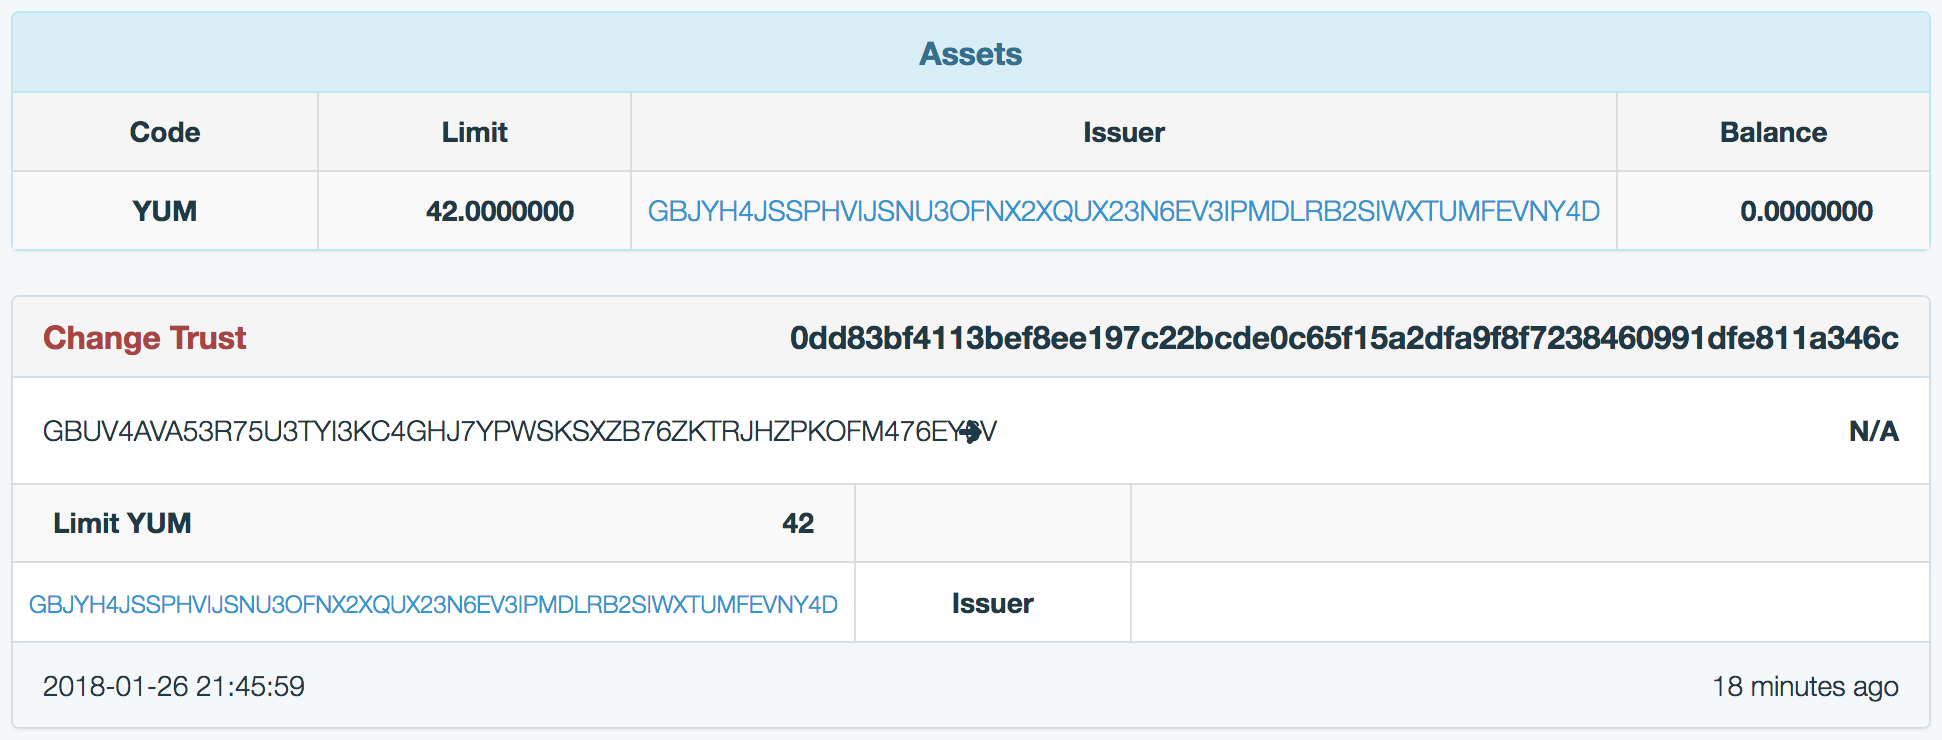
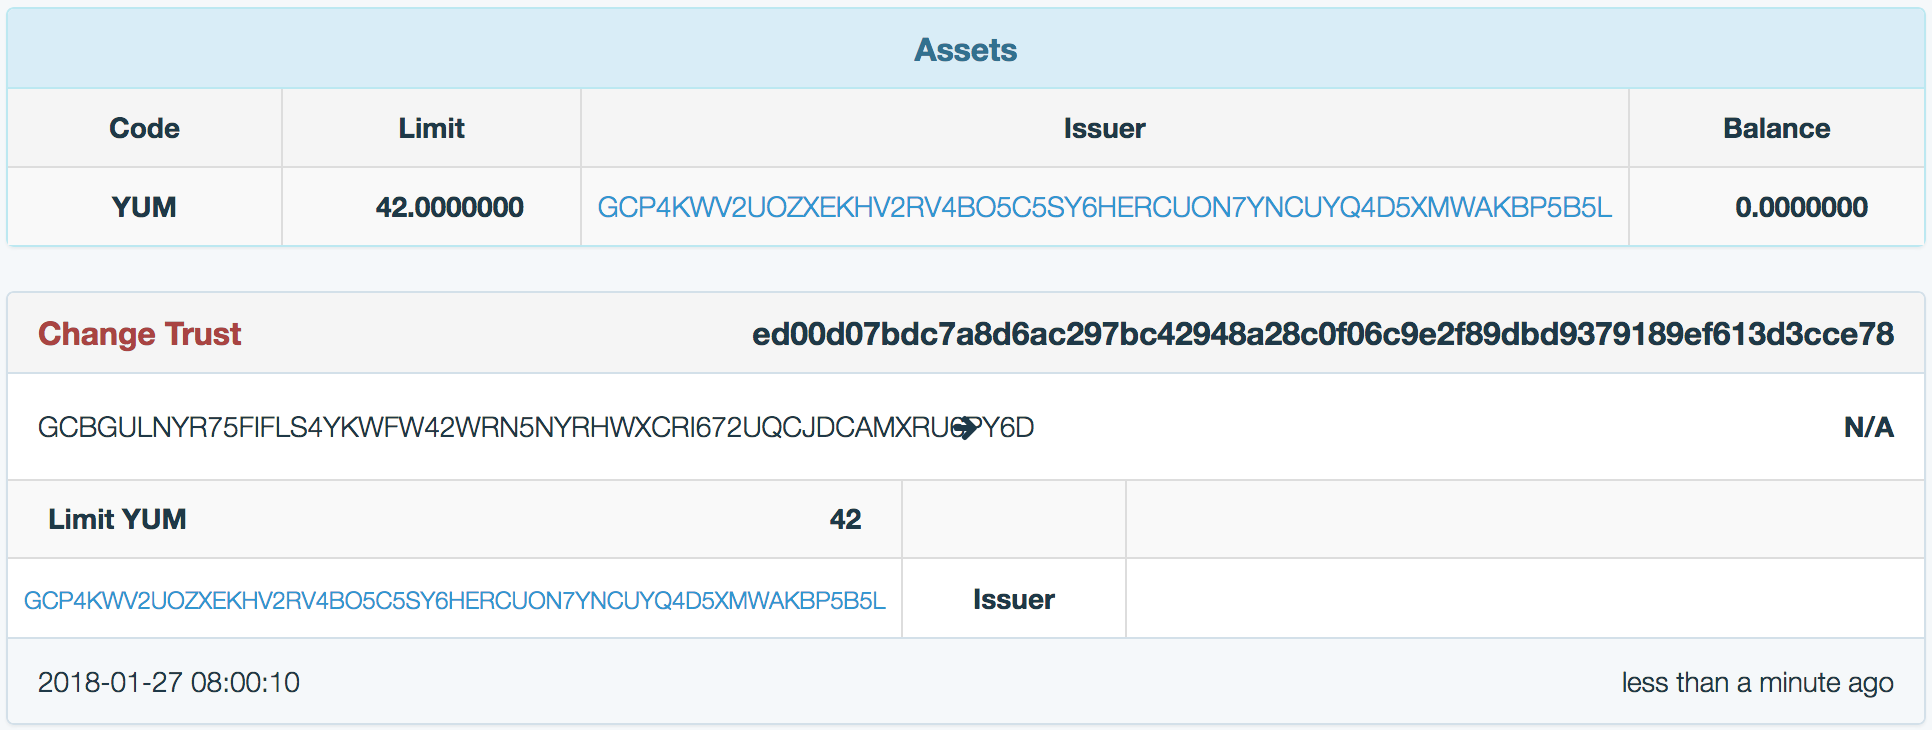
42.0 YUMs are sent with "--send-payment". noice.

diff --git a/mc.go b/mc.go
@@ -1,6 +1,7 @@
 package main
 
 import (
+	"encoding/json"
 	"flag"
 	"fmt"
 	"io/ioutil"
@@ -102,28 +103,42 @@ func fundTestAccount(stellar *horizon.Client, address string) horizon.Account {
 }
 
 func submitTransaction(stellar *horizon.Client, base64tx string) int32 {
+
 	resp, err := stellar.SubmitTransaction(base64tx)
+
 	if err != nil {
-		log.Fatal(err)
+		log.Println(err)
+		herr, isHorizonError := err.(*horizon.Error)
+		if isHorizonError {
+			resultCodes, err := herr.ResultCodes()
+			if err != nil {
+				log.Fatalln("failed to extract result codes from horizon response")
+			}
+			log.Fatalln(resultCodes)
+		}
+		log.Fatalln("could not submit the transaction")
 	}
 
 	return resp.Ledger
 }
 
 type tokenPayment struct {
-	from, to, amount string
-	asset            b.Asset
+	From, To, Amount, Token, Issuer string
 }
 
-func (t *tokenPayment) send(conf config) horizon.Account {
+func (t *tokenPayment) send(conf *config) horizon.Account {
+
+	log.Printf("sending %s %s from %s to %s", t.Amount, t.Token, seedToPair(t.From).Address(), t.To)
+
+	asset := b.CreditAsset(t.Token, t.Issuer)
 
 	tx, err := b.Transaction(
-		b.SourceAccount{t.from},
+		b.SourceAccount{t.From},
 		conf.network,
 		b.AutoSequence{conf.client},
 		b.Payment(
-			b.Destination{t.to},
-			b.CreditAmount{t.asset.Code, t.asset.Issuer, t.amount},
+			b.Destination{t.To},
+			b.CreditAmount{asset.Code, asset.Issuer, t.Amount},
 		),
 	)
 
@@ -131,7 +146,7 @@ func (t *tokenPayment) send(conf config) horizon.Account {
 		log.Fatal(err)
 	}
 
-	txe, err := tx.Sign(t.from)
+	txe, err := tx.Sign(t.From)
 
 	if err != nil {
 		log.Fatal(err)
@@ -145,13 +160,10 @@ func (t *tokenPayment) send(conf config) horizon.Account {
 
 	// fmt.Printf("tx base64: %s", txeB64)
 
-	_, err = conf.client.SubmitTransaction(txeB64)
-	if err != nil {
-		log.Fatal(err)
-	}
+	submitTransaction(conf.client, txeB64)
 	// log.Printf("sent payment %+v, horizon said: %s", t, resp)
 
-	receiver := loadAccount(conf.client, t.to, fmt.Sprintf("sent %s %s from %s to %s\n", t.amount, t.asset.Code, seedToPair(t.from).Address(), t.to))
+	receiver := loadAccount(conf.client, t.To, "... [payment sent]\n")
 
 	return receiver
 }
@@ -196,10 +208,7 @@ func (t *newToken) issueNew(conf *config) b.Asset {
 	}
 	// log.Printf("tx base64: %s", txeB64)
 
-	_, err = conf.client.SubmitTransaction(txeB64)
-	if err != nil {
-		log.Fatal(err)
-	}
+	submitTransaction(conf.client, txeB64)
 	// log.Printf("submitted change of trust tx, horizon said: %s", resp)
 
 	loadAccount(conf.client, distributor.Address(), fmt.Sprintf("issued trust for %s to ", t.symbol))
@@ -232,6 +241,12 @@ func main() {
 		createNewKeys(keyFpath)
 	case txnToSubmit != "":
 		submitTransaction(conf.client, txnToSubmit)
+	case sendPayment != "":
+		payment := &tokenPayment{}
+		if err := json.Unmarshal([]byte(sendPayment), payment); err != nil {
+			log.Fatal(err)
+		}
+		payment.send(conf)
 	case issueToken != "":
 
 		switch nargs := len(os.Args); nargs {

diff --git a/README.md b/README.md
@@ -1,8 +1,14 @@
 # Stellar Mission Control Center
 
-By default stellar-mc is using Stellar test network a.k.a. testnet.
+By default stellar-mc is using [Stellar](https://www.stellar.org/) test network a.k.a. testnet.
 
-## buttons to push
+- [Buttons to Push](#buttons-to-push)
+- [Create and Fund a Test Account](#create-and-fund-a-test-account)
+- [Issuing a New Token](#issuing-a-new-token)
+- [Sending Payments](#sending-payments)
+- [License](#license)
+
+## Buttons to Push
 
 ``` sh
 $ ./mc --help
@@ -105,6 +111,34 @@ notice `Limit:42.0000000` for `Asset:{Code:YUM}`.
 All the YUMmy details could be seen on any ledger interface. For example this is the distributor account on [testnet.stellarchain.io](http://testnet.stellarchain.io/address/GBUV4AVA53R75U3TYI3KC4GHJ7YPWSKSXZB76ZKTRJHZPKOFM476EY6V):
 
 <img src="doc/img/yum-42.png">
+
+## Sending Payments
+
+In order to send a payment of non native assset, which is any token besides 'XLM', we need several things:
+
+* create a transaction that is signed by the sender (i.e. sender's private key)
+* address of the recepient (i.e. receiving account's public key)
+* token code
+* amount
+* token issuer (i.e. issuer's public key)
+
+To continue the [issuing a new token](#issuing-a-new-token) example, we'll send `42.0` `YUM`s from the issuer to distributor. Since there are quite a few parameters, the `--send-payment` option takes them as a JSON map with these keys: `"from" "to" "token" "amount" "issuer"`:
+
+```bash
+$ ./mc --send-payment '{"from": "'$(cat issuer)'", "to": "'$(cat distributor.pub)'", "token": "YUM", "amount": "42.0", "issuer": "'$(cat issuer.pub)'"}'
+
+2018/01/27 03:01:47 sending 42.0 YUM from GCP4KWV2UOZXEKHV2RV4BO5C5SY6HERCUON7YNCUYQ4D5XMWAKBP5B5L to GCBGULNYR75FIFLS4YKWFW42WRN5NYRHWXCRI672UQCJDCAMXRU6PY6D
+2018/01/27 03:01:50 ... [payment sent]
+account: GCBGULNYR75FIFLS4YKWFW42WRN5NYRHWXCRI672UQCJDCAMXRU6PY6D.
+balances: [{Balance:42.0000000 Limit:42.0000000 Asset:{Type:credit_alphanum4 Code:YUM Issuer:GCP4KWV2UOZXEKHV2RV4BO5C5SY6HERCUON7YNCUYQ4D5XMWAKBP5B5L}} {Balance:9999.9999800 Limit: Asset:{Type:native Code: Issuer:}}]
+more details: https://horizon-testnet.stellar.org/accounts/GCBGULNYR75FIFLS4YKWFW42WRN5NYRHWXCRI672UQCJDCAMXRU6PY6D
+```
+
+Now if we check the distribution account on [testnet.stellarchain.io](http://testnet.stellarchain.io/address/GCBGULNYR75FIFLS4YKWFW42WRN5NYRHWXCRI672UQCJDCAMXRU6PY6D) we'll see it has `42.0` `YUM`s sent to it from the issuer:
+
+<img src="doc/img/yum-42-42.png">
+
+Source (i.e. `"from"`) of the payment could be any account, not just the issuer, as long as this account has `YUM`s to send. In the example above it was the issuer since it was the only account that had `YUM`s. The issuer's public key though should still be used to identify the asset: "this YUM you are getting was signed by me".
 
 ## License
 
